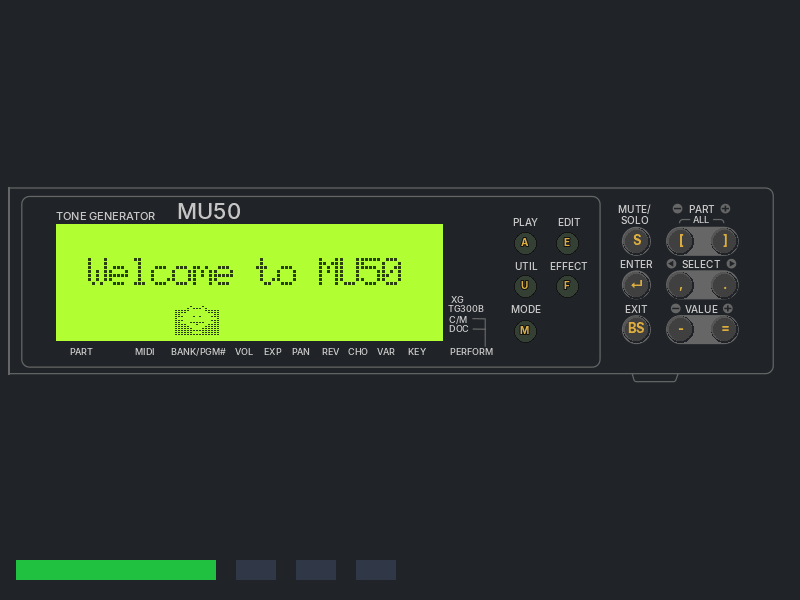
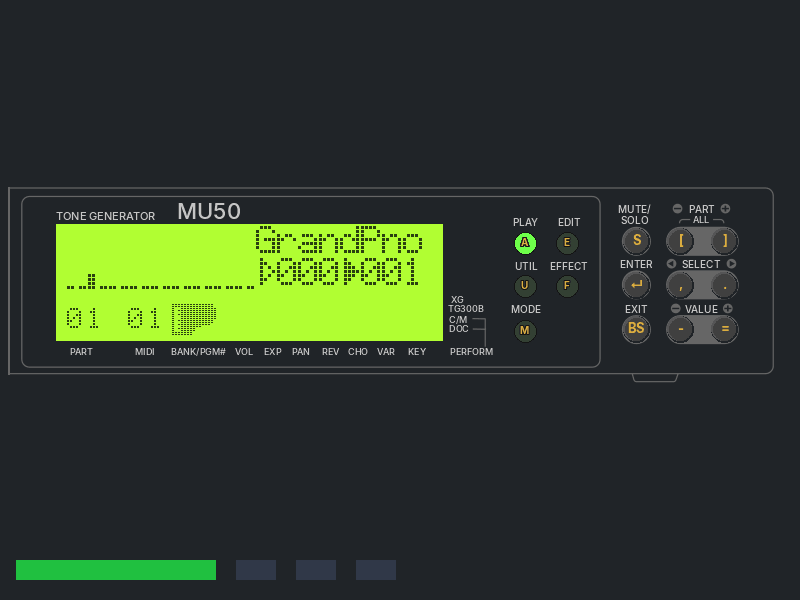
MU50: docs/panel.png from the MiSTer (play screen); plan: panel build numbers

diff --git a/cores/mu50/docs/plan.md b/cores/mu50/docs/plan.md
@@ -148,7 +148,7 @@ U1 and U3 run in parallel: they share nothing but the bench.
 | U2 | Done: `hdl/h8h/h83003_periph.sv` (MAME's interrupt controller, 16-bit timer, SCI, A/D, ports, SYSCR, watchdog; lazy event model in virtual time), `hdl/h8h/h8h_sys.sv` (core + peripherals + on-chip RAM, execute_run's sequencing). `tests/u2_check.sh`: the v1.05 firmware on `sim/mu50sys_bench.cpp` (software board) is identical to MAME for 12 s of boot and `basic.txt` MIDI: 27,789,525 instruction lines, 7,265 interrupts, 240 MIDI pin changes. CI: a peripheral program (`tools/u2_periph_prog.py`: timer interrupts, SLEEP, A/D scan) against MAME's trace hash. Quartus 17, CPU + peripherals alone: 12,456 ALMs, 4,023 registers (27,252 before the timer datapath was shared and the event minimum pipelined); timing at 50 MHz is U5 work. |
 | U3 | Done: `hdl/swp00/` (`swp00.sv` voices and registers, `swp00_meg.sv` MEG executor, `swp00_pkg.sv`), the MEG program compiled by `tools/swp00_meg_gen.py` from MAME's `swp00.cpp`. Reference `ref/swp00_ref` = MAME's code as a C++ class (`tools/swp00_ref_extract.py`), built with wrapping arithmetic. Gate: corpus `basic` (794,099 sample pairs, 1,711 reads) HDL output byte-identical to MAME's; four random SWP00 stimuli, one per MEG variant (`tools/swp00_stimgen.py`, seeds 2-5, 44,101 samples each, about 21,000 writes and 550 reads each) identical to MAME with every channel record and MEG register checked after every sample (`tests/u3_run.sh`, `VCHECK=1`); one 'wild' stimulus (seed 1, extreme constants) identical to the wrapping reference. CI replays committed access lists (160 KB) against MAME's sample hashes. Quartus 17, the SWP00 alone on 5CSEBA6: 5,066 ALMs, 3,148 registers, 20 M10K, 14 DSP blocks, +3.3 ns slack at 50 MHz |
 | U4 | Done: `hdl/mu50_board.sv` (h8h_sys + SWP00 + 64 KB RAM + `hdl/mu50_lcd.sv` + keys, LEDs, A/D constants, IRQ0) on `sim/mu50_bench.cpp` (program ROM, wave ROM and delay lines in C++ arrays): the corpus case `basic` from power-on gives a sample file identical to MAME's, 794,099 pairs (`f19a8d2d159a7fb8`, `tests/midi/expected.txt`); the LCD at the end reads `GrandPno01` / `000.001 01`. `tests/u4_check.sh`. 2.66 FPGA clocks a CPU state with 1-clock memories. Speed: 5.49 FPGA clocks a CPU state with 1-clock memories (9.1 before the bus fast path); real time at 50 MHz needs 5 (U5). |
-| U5 | Core done, hardware test partial: `mister/MU50.sv` + `hdl/mu50_top.sv` (DDR3 memories with a 32 KB program ROM cache, pacing, MIDI from MidiLink, 44.1 kHz audio FIFO, 64 KB NVRAM save, PS/2 panel keys, LCD video). Windows build (Quartus 17, seed 1): 26,806 ALMs, 185 RAM blocks, 59 DSP; core clock +1.241 ns at 50 MHz, HDMI +0.560 ns. `sim/mu50_top_bench.cpp` (DDR3 model, 12-clock latency): bus hash over 4 s equals the board bench's; the 18 s corpus through the UART with pacing on: 0 underruns, 22.7% of clocks waiting for real time (rerun after fixing the bench's UART stop bits, which had garbled the MIDI in of the first measurement; all 92 bytes now reach RDR1). MIDI out: SCI1's transmit line is read back as bytes in virtual time and sent by `synthframe_midi_tx` at 31,250 baud; the corpus case `dump` (XG bulk dump requests) gives MAME's 70 bytes on the board bench, the wrapper bench and the MiSTer. `scripts/mister/smoke.sh` on the MiSTer: PASS (running, no underrun, LCD lit, MIDI and the Util key change the LCD, a 64 KB save file). MIDI out build (seed 1): 26,967 ALMs, core +1.093 ns, HDMI +0.473 ns; smoke PASS with MIDI out equal to MAME's. Not yet checked on hardware: the NVRAM restore after a reload, listening |
+| U5 | Core done, hardware test partial: `mister/MU50.sv` + `hdl/mu50_top.sv` (DDR3 memories with a 32 KB program ROM cache, pacing, MIDI from MidiLink, 44.1 kHz audio FIFO, 64 KB NVRAM save, PS/2 panel keys, LCD video). Windows build (Quartus 17, seed 1): 26,806 ALMs, 185 RAM blocks, 59 DSP; core clock +1.241 ns at 50 MHz, HDMI +0.560 ns. `sim/mu50_top_bench.cpp` (DDR3 model, 12-clock latency): bus hash over 4 s equals the board bench's; the 18 s corpus through the UART with pacing on: 0 underruns, 22.7% of clocks waiting for real time (rerun after fixing the bench's UART stop bits, which had garbled the MIDI in of the first measurement; all 92 bytes now reach RDR1). MIDI out: SCI1's transmit line is read back as bytes in virtual time and sent by `synthframe_midi_tx` at 31,250 baud; the corpus case `dump` (XG bulk dump requests) gives MAME's 70 bytes on the board bench, the wrapper bench and the MiSTer. `scripts/mister/smoke.sh` on the MiSTer: PASS (running, no underrun, LCD lit, MIDI and the Util key change the LCD, a 64 KB save file). MIDI out build (seed 1): 26,967 ALMs, core +1.093 ns, HDMI +0.473 ns; smoke PASS with MIDI out equal to MAME's. Panel art and MAME's LCD cell layout (seed 1): 27,350 ALMs, 240 RAM blocks; core +1.822 ns, video +2.540 ns, HDMI +0.535 ns; smoke PASS. Not yet checked on hardware: the NVRAM restore after a reload, listening |
 
 U0 findings [OBS]:
 - **Program ROM file order:** MAME's `ROM_LOAD16_WORD_SWAP` wants each byte pair of the CPU
